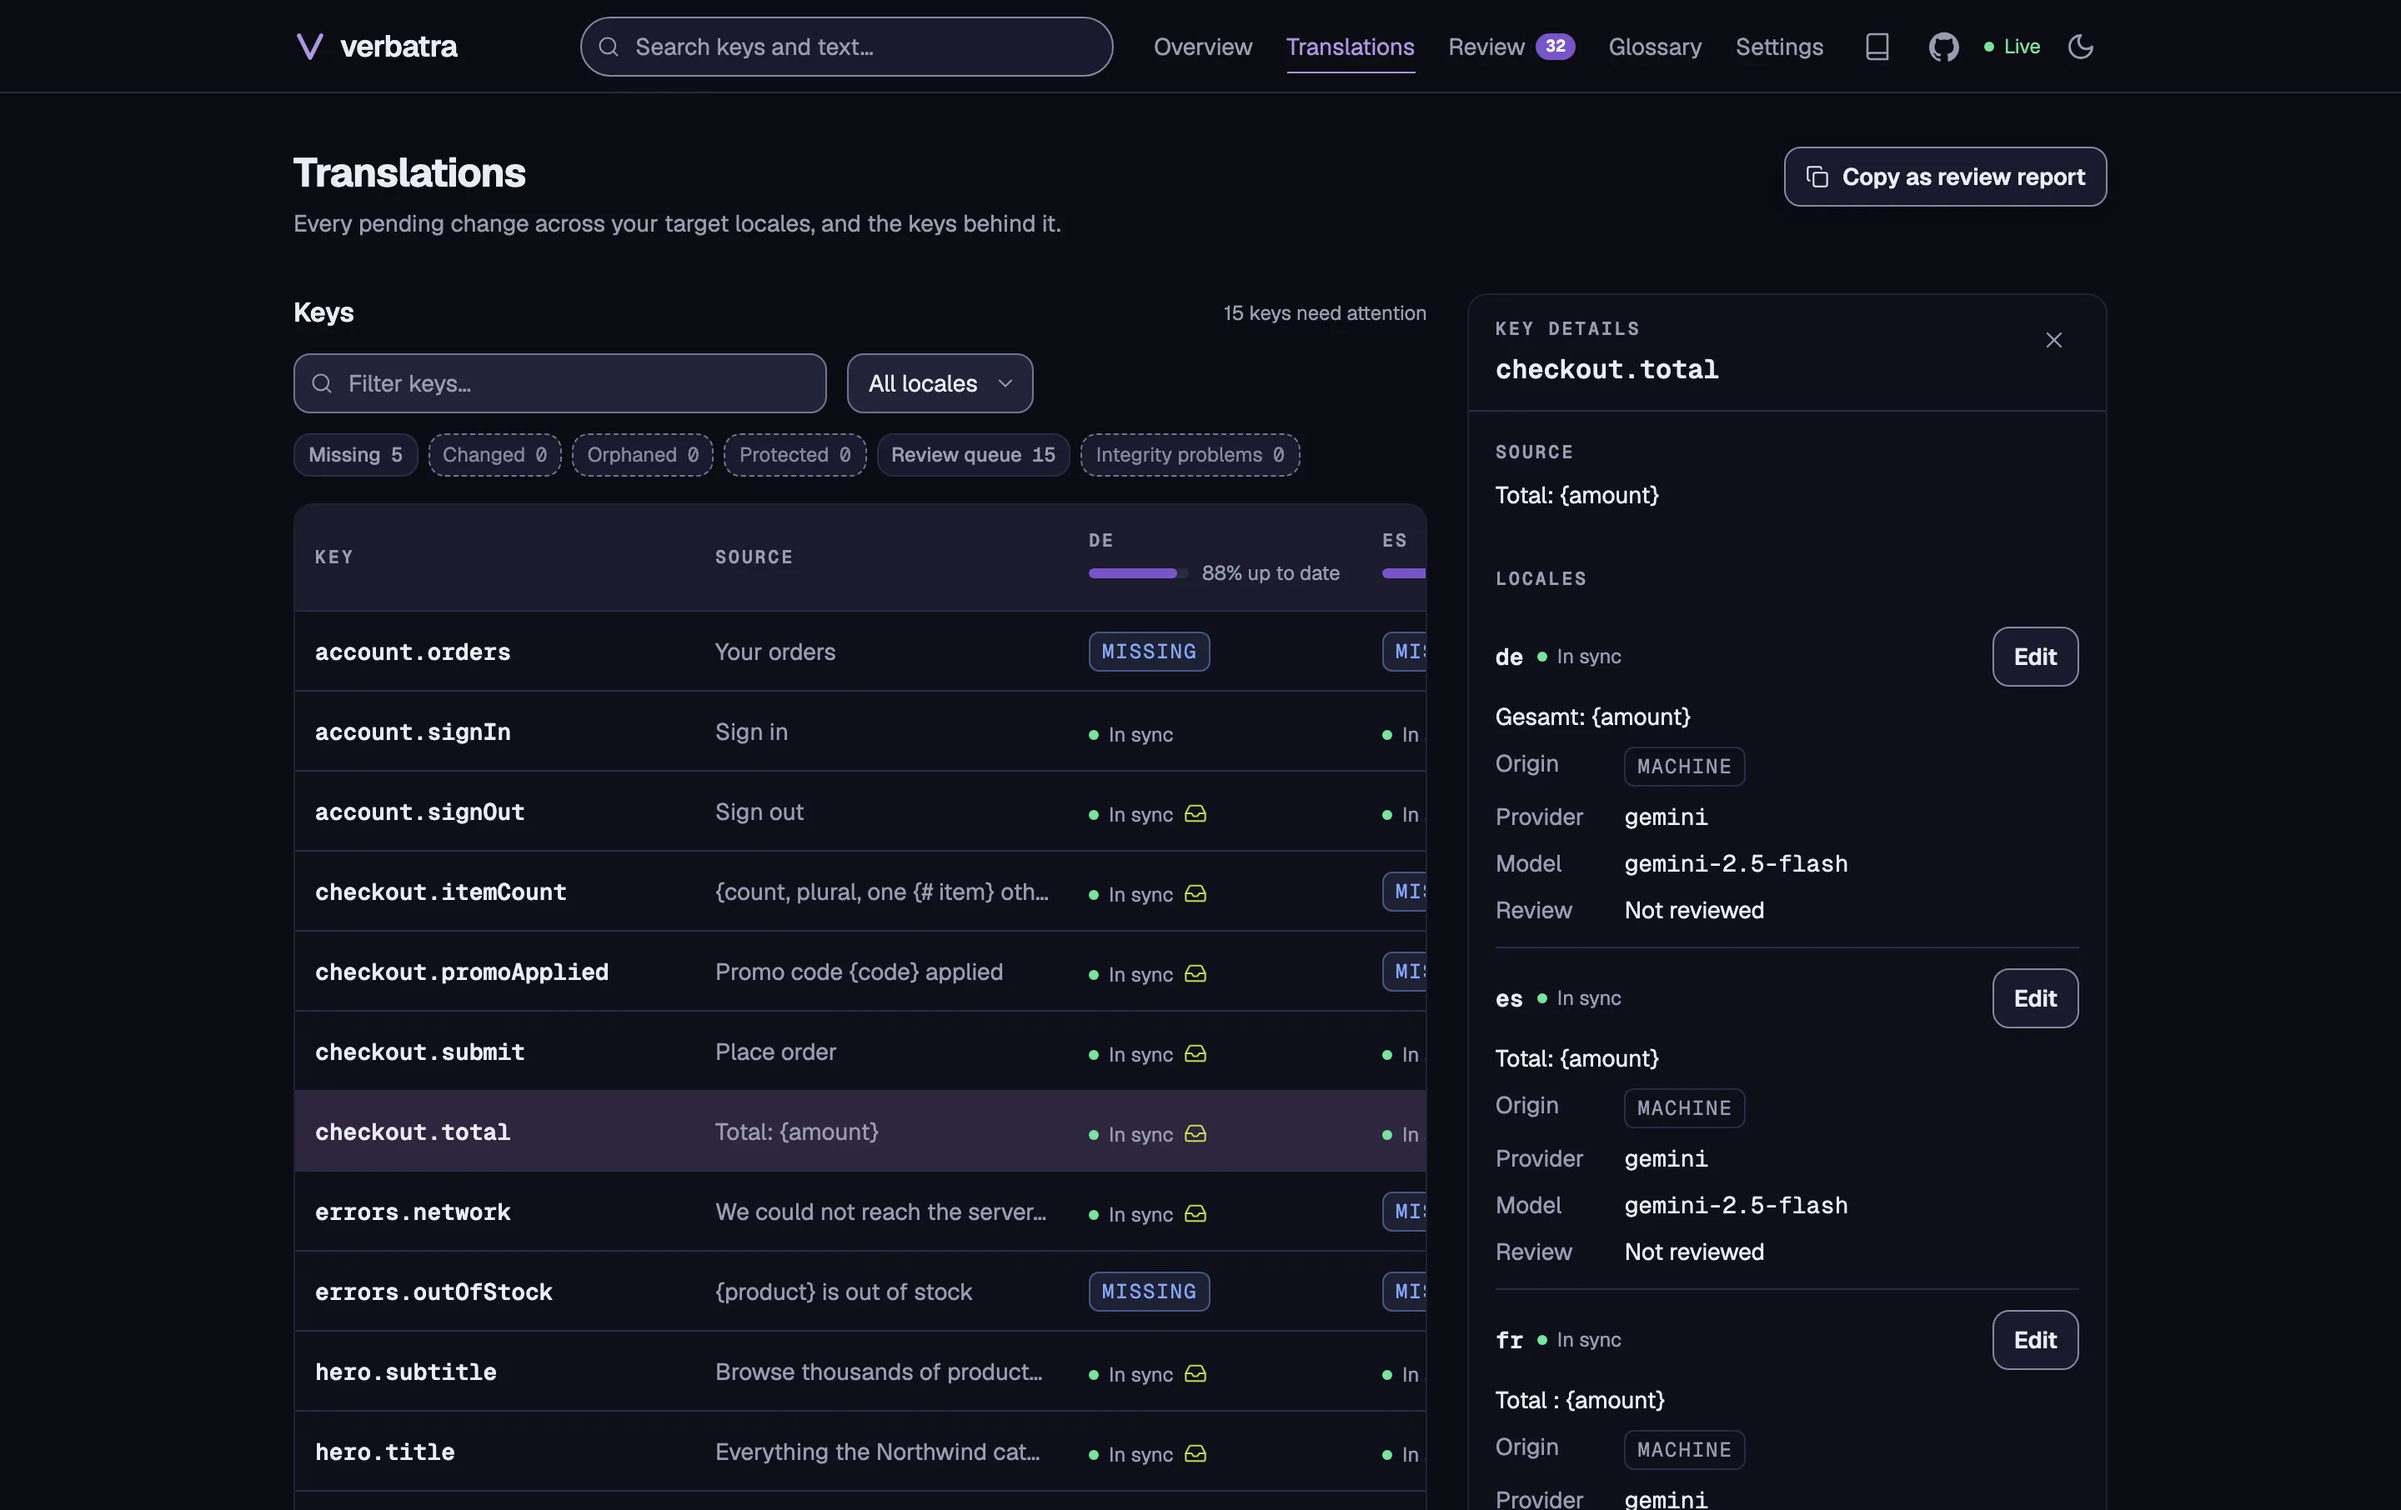
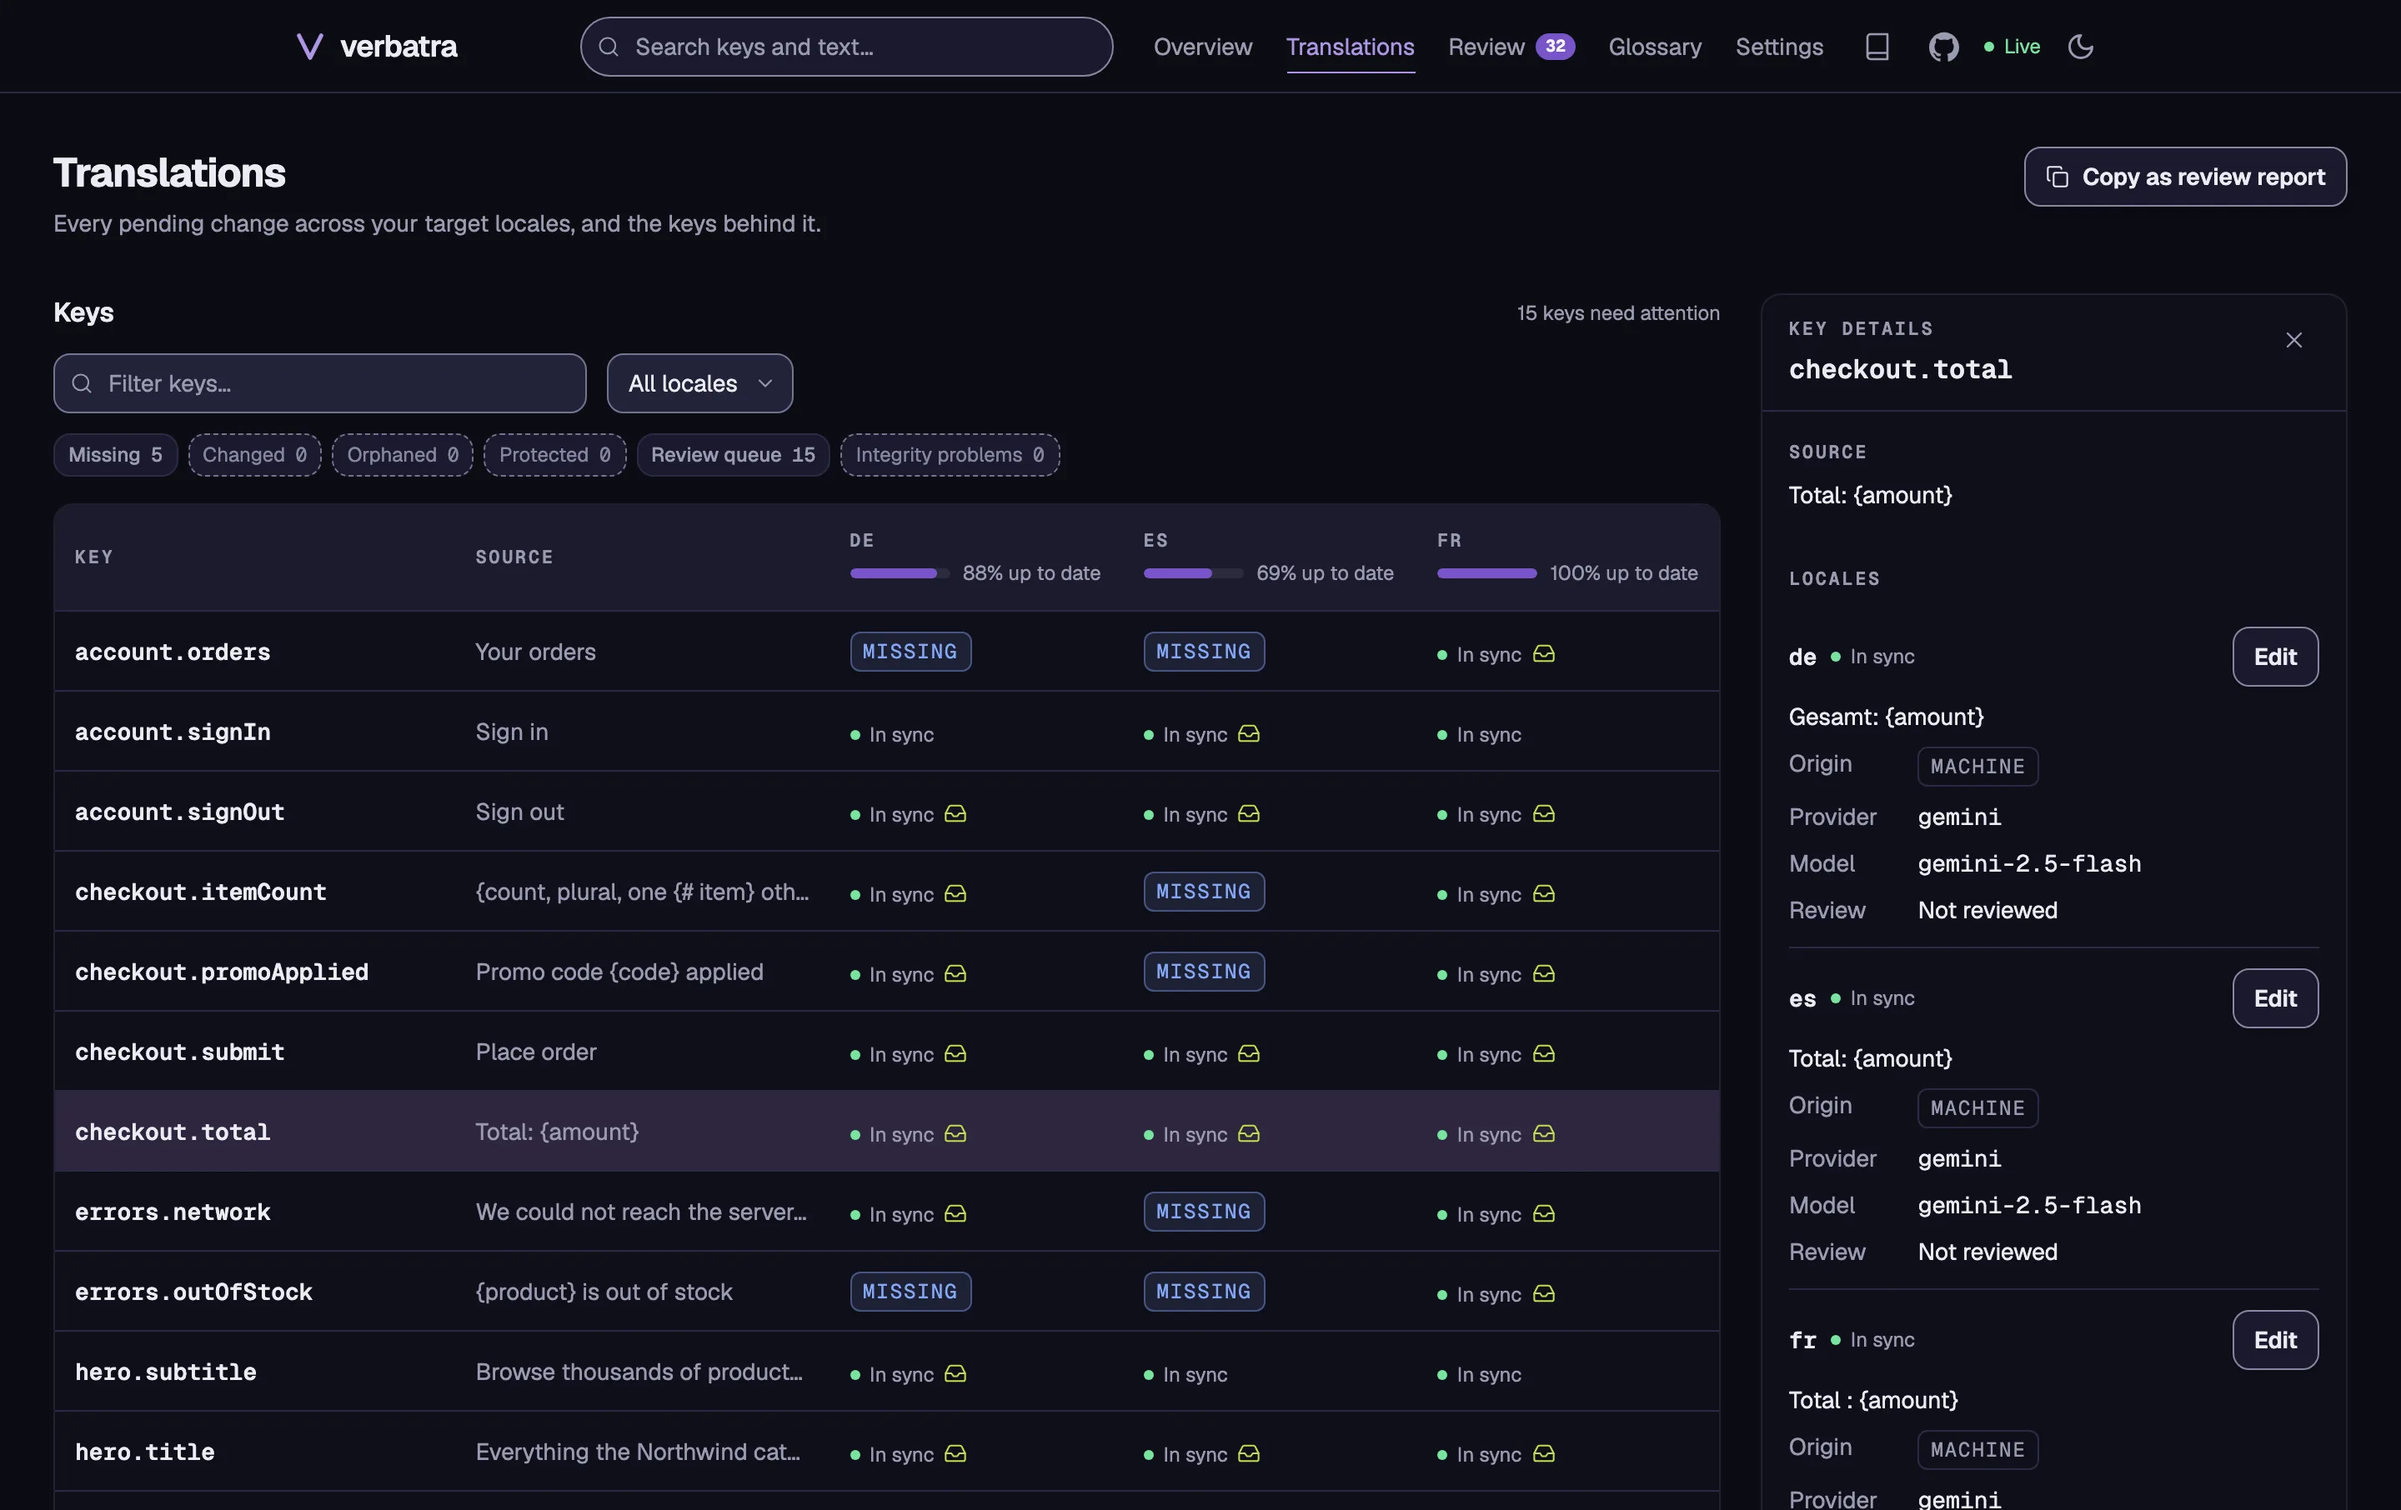
docs(studio): fix the German draft checks and document the sticky prompt rule

diff --git a/.claude/skills/studio-ui/SKILL.md b/.claude/skills/studio-ui/SKILL.md
@@ -286,20 +286,35 @@ scroll card's ref and shows only while it overflows, at any width. A row is sele
 `matchMedia` read (`XL_QUERY`, 80rem) on the first render, never by an effect, so an `xl` deep link
 never mounts a modal: from `xl` it is `EditorPane`, a sticky `--radius-lg` card in a grid column
 beside the table that scrolls inside itself below the 3.5rem site header, and has no `aria-modal`;
-below `xl` it is the `DrawerShell` (side end). Editor state (the open locale, its draft, the unsaved
-prompt) lives in `KeyEditor`, above the container, so crossing `xl` keeps a draft. The translation
-form is inline in the locale block, built from the parts in `entry-editor-parts.tsx` that
-`EditEntryDialog` (Review only) shares; a second editor dialog or a copy of those parts is a defect.
-Roving focus stays on the row when a key opens, Escape in the pane moves focus back to the row, and
-the pane never takes a global letter shortcut. Every external route change goes through
-`route-guard.ts`: while a draft is dirty, `replaceRoute`, `navigateToPage`, `navigateToRoute` and a
-`hashchange` (back, forward, a typed hash) are held, the address is restored with `replaceState`,
-and an inline `UnsavedPrompt` (Save, Discard, Keep editing, never `window.confirm`) decides. A new
-control that changes the route needs no extra code, but it must honour the boolean the navigate
-helpers return before running its own side effects.
-The guard's `hashchange` listener registers when `route-guard.ts` loads, so it runs before the
-router's own listener and restores the address before the previous page can render; never move it
-into an effect. A dirty draft also asks the browser to confirm on `beforeunload`.
+below `xl` it is the `DrawerShell` (side end). While the pane is open the page uses the wide layout
+(`Container` widens to `--width-layout` through `has-[[data-split]]`), so the matrix keeps three
+locale columns at 1440. Editor state (the open locale, its draft, the unsaved prompt) lives in
+`KeyEditor`, above the container, so crossing `xl` keeps a draft, and focus and the selection in the
+field are restored after the swap. The translation form is inline in the locale block, built from
+the parts in `entry-editor-parts.tsx` and the `useLocaleEdit` hook, both shared with `EditEntryDialog`
+(Review); a second editor dialog or a copy of either is a defect. A failed read shows `ErrorMessage`
+with Retry (and Cancel in the form), never an empty state. Roving focus stays on the row when a key
+opens, Escape in the pane moves focus back to the row, and the pane never takes a global letter
+shortcut.
+
+**Unsaved prompt.** Every external route change goes through `route-guard.ts`, which blocks by
+history index, like a router blocker: every entry carries `{ idx }`, `navigate*` pushes `idx + 1`
+and `replaceRoute` replaces with the same `idx`. While a draft is dirty, a held traversal (back,
+forward, an entry typed or linked) is undone with `history.go(-delta)`, the echo is ignored, and
+proceeding replays it with `history.go(delta)`; a held push or replace is replayed as the same push
+or replace. Typing (filter text, chips, selects, locale) replaces, a header search or page link
+pushes once. An entry without an index falls back to the `beforeunload` confirmation, which is
+attached only while a draft is dirty. The guard's `popstate` and `hashchange` listeners register
+when `route-guard.ts` loads, so they run before the router's and the router keeps showing the held
+address (`visibleHash`) until the undo lands; never move them into an effect. An inline
+`UnsavedPrompt` (Save, Discard, Keep editing, never `window.confirm`) decides: it is a sticky element
+at the top of the pane's scroller (`data-sticky`), in the drawer it sits in the sticky header
+through `Sheet`'s `banner` slot, it scrolls itself into view and focuses Keep editing, its Save is
+the only primary action while it is shown, and a rejected save keeps it, with the reason, and puts
+focus back in the field. It clears itself when the draft stops being dirty. A refresh that removes
+the open key while the draft is dirty keeps the editor, with a notice and a Discard. A new control
+that changes the route needs no extra code, but it must honour the boolean the navigate helpers
+return before running its own side effects.
 
 **Mixed surface tokens are root-scoped.** `--surface-table-head` and `--surface-row-hover` are
 `color-mix` tokens declared under `:root`, like `--surface-band` and `--surface-chrome`: they
